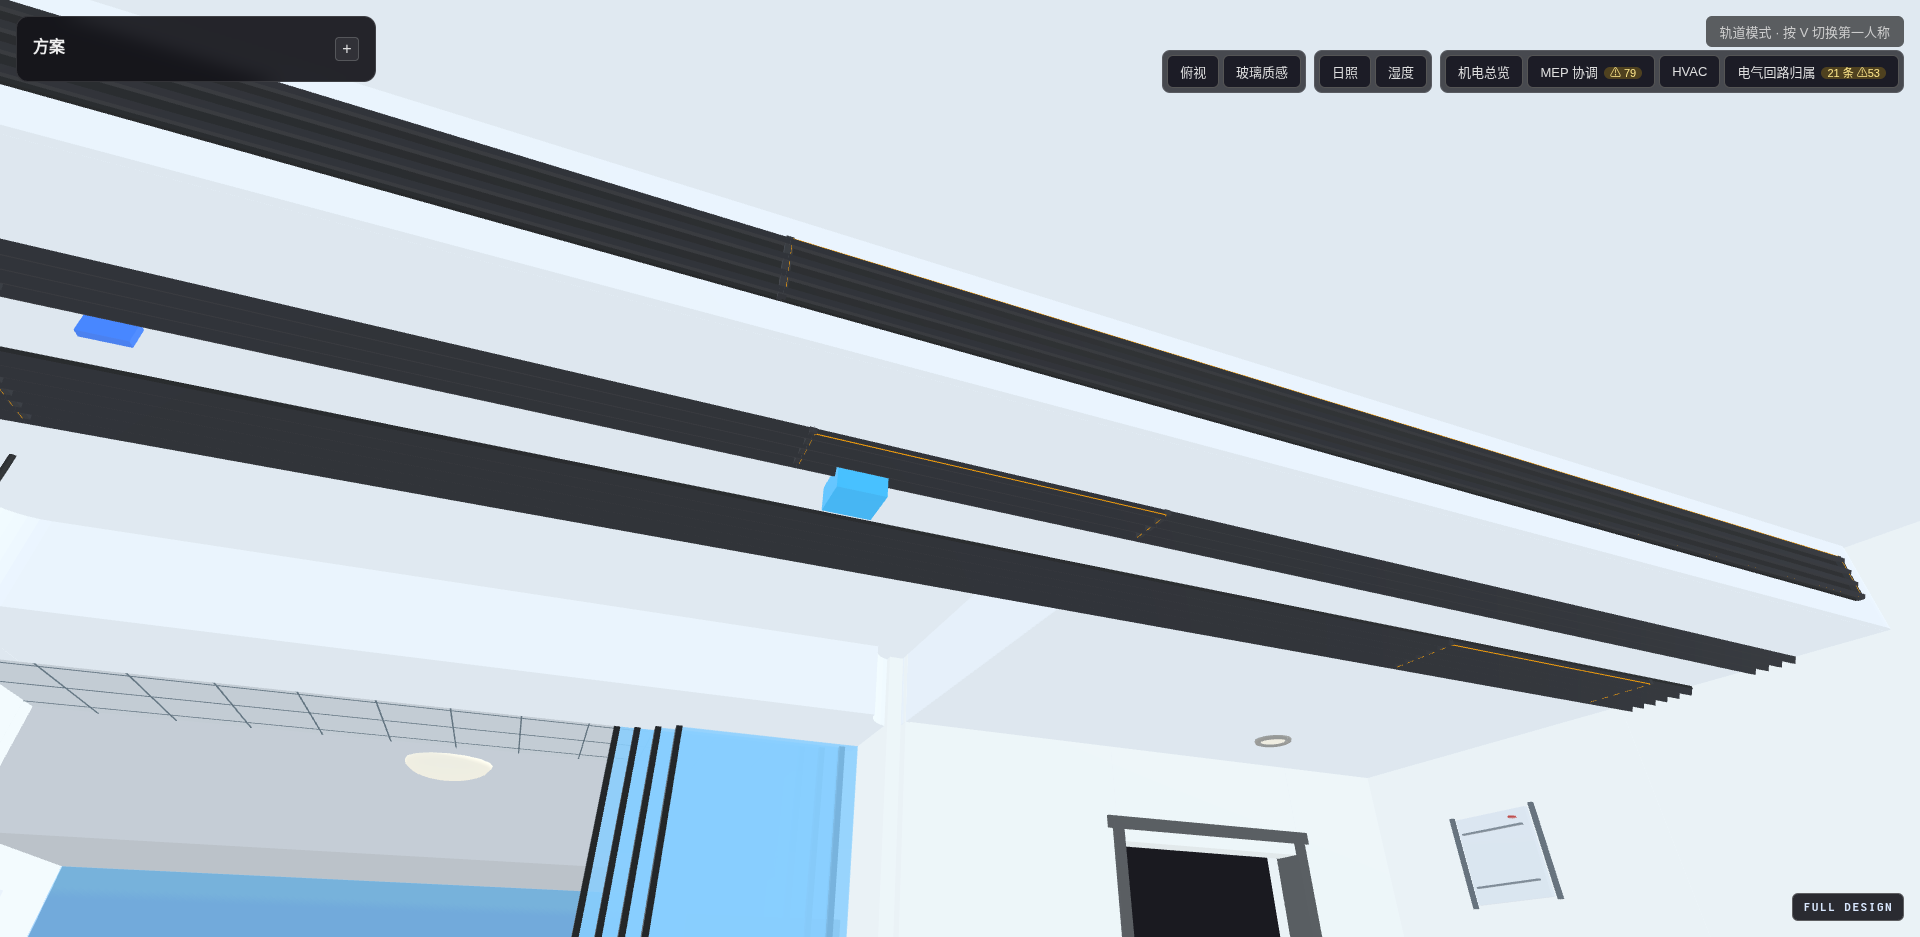
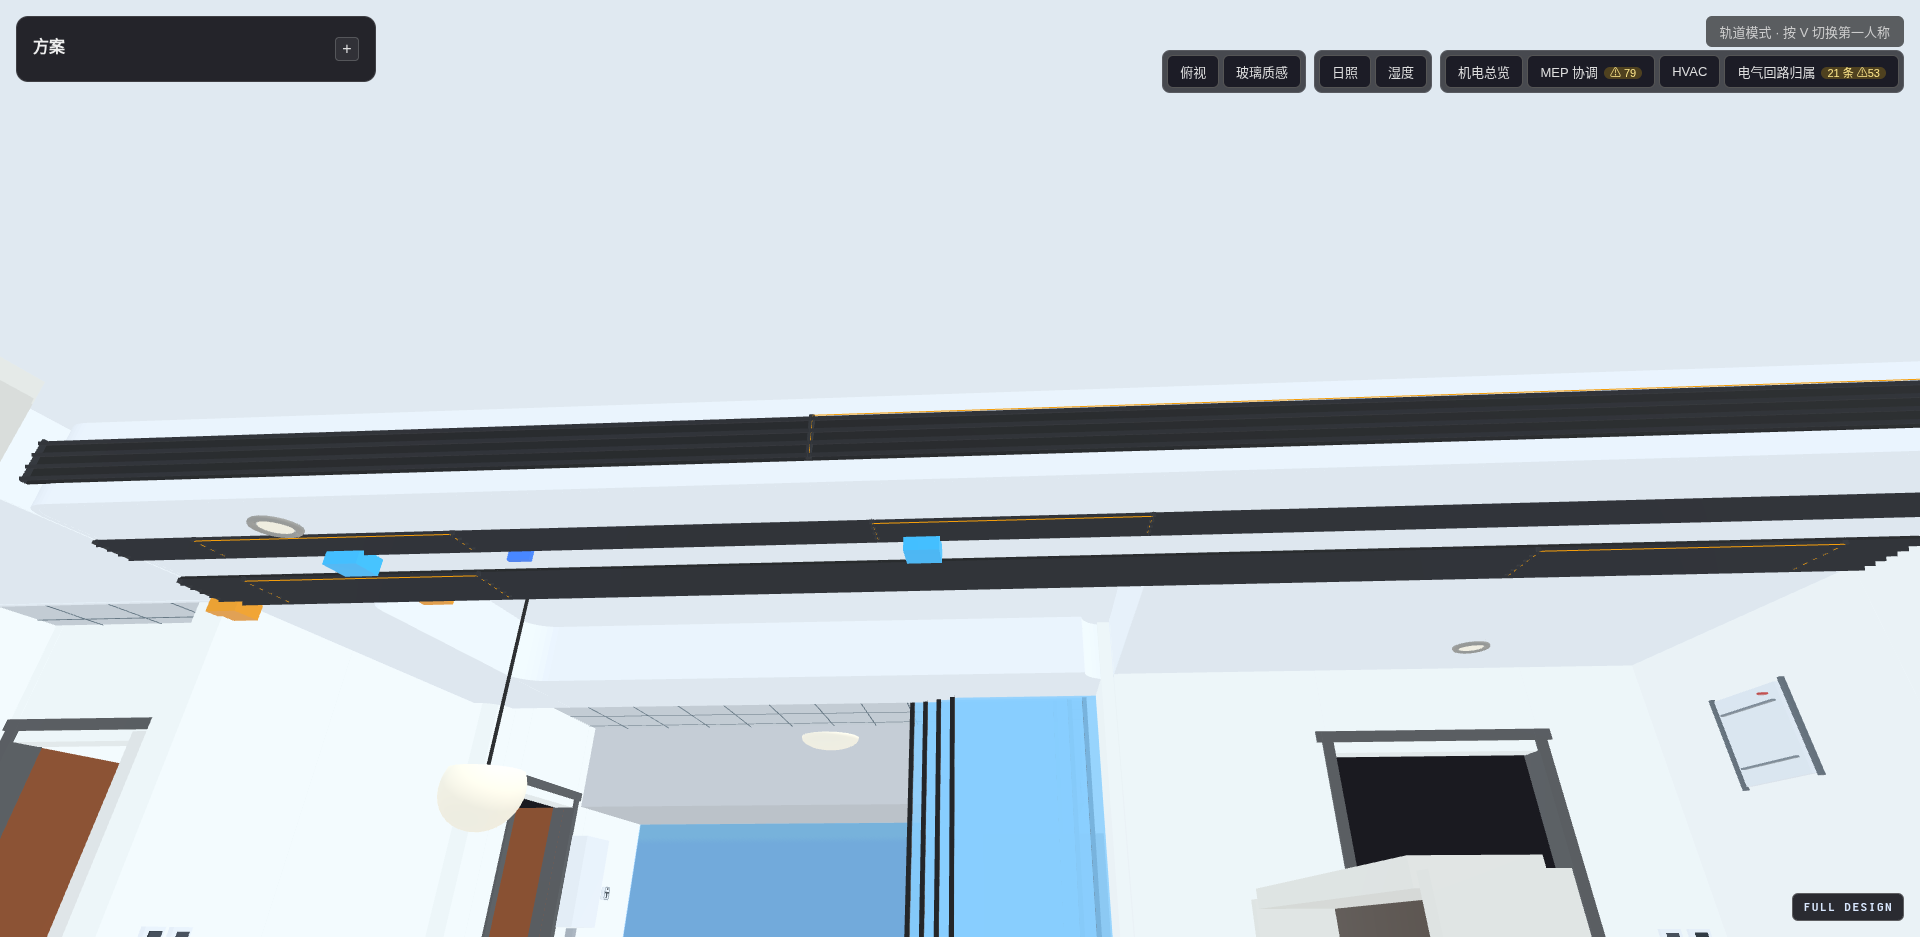
feat(hvac): DEC-2026-10-07-R03 客餐厅三层线收尾——仰视近景证据 + 常驻截图/运行时校验脚本
主体改动（config/hvac.yaml 三层线口径+8个LD-deco-*封闭装饰段、HvacTerminal的decorative/linear_slot/grille_height、HvacGeometryBuilder线性槽渲染、facts重生成、tests计数14→22、DEC条目与迭代五件套）此前已被并行会话的11ef1ff一并提交（该commit message为其ceiling主题、内容含本案全部改动，提交信息与实际内容不符，待业主裁定处理方式）。本提交补齐收尾文件：
- evidence/view4-band-closeup.png：设备带仰视近景（CDP截图，机位回读坐标见evidence-notes）
- evidence/evidence-notes.md：4视角机位/图纸说明/验收对照
- review-manifest.json：runtime_query改指常驻脚本
- scripts/render/capture/capture_hvac_ld_threeline_views.py：视角截图脚本常驻（CDP）
- scripts/render/diagrams/ld-threeline-runtime-check.ts：运行时尺寸/连续性校验脚本常驻

验证：verify:all Exit 0 / test:server 649 / test:app 482 / typecheck / GLB 22 terminal 唯一。

diff --git a/scripts/render/diagrams/ld-threeline-runtime-check.ts b/scripts/render/diagrams/ld-threeline-runtime-check.ts
@@ -1,0 +1,22 @@
+import { readFileSync } from 'node:fs';
+import * as THREE from 'three';
+import { buildHvacGeometry } from '../../../shared/render/HvacGeometryBuilder.js';
+import { buildHvacBuilderSources } from '../../../shared/render/HvacBuilder.js';
+
+const projection = JSON.parse(readFileSync('data/project-render-facts.json', 'utf8'));
+const root = new THREE.Group();
+const { index } = buildHvacGeometry(root, projection, buildHvacBuilderSources({ projection }));
+const rows: Record<string, unknown> = {};
+for (const [id, object] of index.terminals) {
+  if (!/ld-deco|supply_living|supply_dining|return_living|return_dining|living_bottom|dining_bottom/i.test(id)) continue;
+  object.updateMatrixWorld(true);
+  const box = new THREE.Box3().setFromObject(object);
+  const size = box.getSize(new THREE.Vector3());
+  rows[id] = {
+    position: object.position.toArray().map((v) => Number(v.toFixed(3))),
+    render_style: object.userData.render_style,
+    decorative: object.userData.decorative,
+    size: [size.x, size.y, size.z].map((v) => Number(v.toFixed(3))),
+  };
+}
+console.log(JSON.stringify({ hvacTerminals: index.terminals.size, livingDining: rows }));

diff --git a/scripts/render/capture/capture_hvac_ld_threeline_views.py b/scripts/render/capture/capture_hvac_ld_threeline_views.py
@@ -1,0 +1,121 @@
+#!/usr/bin/env python3
+"""DEC-2026-10-07-R03 客餐厅三层线视角证据截图（CDP）。
+前置：PATH=$PWD/node_modules/.bin bash scripts/dev.sh（源码 dev，server :4000 / vite :5175）+
+chromium --headless=new --remote-debugging-port=9222 --remote-allow-origins=* --enable-unsafe-swiftshader http://localhost:5175
+用法：.venv/bin/python scripts/render/capture/capture_hvac_ld_threeline_views.py
+说明：轨道模式默认极角钳位会把低机位相机推高，脚本在页面内放开 controls.maxPolarAngle 后按人视高度截图。
+"""
+import base64
+import json
+import sys
+import time
+from pathlib import Path
+
+import requests
+from websocket import create_connection
+
+CDP = 'http://localhost:9222/json'
+APP_URL = 'http://localhost:5175'
+OUT = Path(__file__).resolve().parents[2] / 'docs/design-iterations/hvac-dual-outlet-threeline-20261007/evidence'
+OUT.mkdir(parents=True, exist_ok=True)
+
+# name, camera pos, controls target, note
+VIEWS = [
+    ('view1-living-band-main', (9.9, 1.60, 7.70), (10.4, 2.42, 5.00), '客餐厅主效果图：客厅侧看向设备带（南→北）'),
+    ('view2-from-living-to-dining', (12.9, 1.58, 7.20), (7.8, 2.25, 3.40), '从客厅看餐厅（越过设备带北缘看餐区/餐桌）'),
+    ('view3-from-dining-to-living', (7.9, 1.52, 3.60), (12.9, 2.42, 5.60), '从餐厅看客厅（餐桌位看向客厅侧与设备带）'),
+    ('view4-band-closeup', (9.50, 1.42, 6.50), (10.2, 2.50, 4.90), '设备带近景（仰视：底面前侧下出风 + 后侧回风两条线）'),
+    ('view4b-band-underside', (10.30, 1.30, 7.55), (10.15, 2.56, 5.15), '设备带底面仰视候选（客厅侧低于边吊看向底面两层线）'),
+    ('view4c-band-underside-dining', (8.05, 1.30, 3.75), (9.00, 2.56, 4.55), '设备带底面仰视候选（餐厅侧低于边吊看向底面两层线）'),
+]
+
+
+def ws_url():
+    pages = requests.get(CDP, timeout=10).json()
+    for page in pages:
+        if page.get('type') == 'page' and APP_URL in page.get('url', ''):
+            return page['webSocketDebuggerUrl']
+    raise RuntimeError(f'no CDP page for {APP_URL}; pages={[p.get("url") for p in pages]}')
+
+
+class Cdp:
+    def __init__(self, ws_url):
+        self.ws = create_connection(ws_url, timeout=60)
+        self.next_id = 1
+
+    def send(self, method, params=None):
+        rid = self.next_id
+        self.next_id += 1
+        self.ws.send(json.dumps({'id': rid, 'method': method, 'params': params or {}}))
+        while True:
+            msg = json.loads(self.ws.recv())
+            if msg.get('id') == rid:
+                if 'error' in msg:
+                    raise RuntimeError(f'{method}: {msg["error"]}')
+                return msg['result']
+
+    def evaluate(self, expression, await_promise=False, timeout=60):
+        result = self.send('Runtime.evaluate', {'expression': expression, 'returnByValue': True, 'awaitPromise': await_promise})
+        value = result.get('result', {})
+        if value.get('exceptionDetails'):
+            raise RuntimeError(f'evaluate failed: {value["exceptionDetails"]}')
+        return value.get('value')
+
+    def close(self):
+        self.ws.close()
+
+
+def wait_ready(cdp, timeout=120):
+    deadline = time.monotonic() + timeout
+    while time.monotonic() < deadline:
+        try:
+            ready = cdp.evaluate('window.__APP__ && window.__APP__.isReady && window.__APP__.isReady()')
+            if ready:
+                return True
+        except Exception:
+            pass
+        time.sleep(1)
+    raise TimeoutError('app not ready')
+
+
+def prepare_mode(cdp):
+    # setMode 会触发相机动画归位，必须先切模式并等动画结束再设置相机
+    # 放开轨道相机的极角限制，否则仰视（相机低于设备带）会被 controls 钳位推回高处
+    cdp.evaluate('(() => { const hs = window.__APP__.houseScene; hs.setMode("orbit"); hs.setCeilingVisible(true); hs.controls.maxPolarAngle = Math.PI * 0.99; hs.controls.minPolarAngle = 0.02; hs.requestRender(); return 1; })()')
+    time.sleep(1.8)
+
+
+def set_camera(cdp, pos, target):
+    js = (
+        '(() => {'
+        '  const hs = window.__APP__.houseScene;'
+        '  hs.camera.position.set(%f, %f, %f);'
+        '  hs.controls.target.set(%f, %f, %f);'
+        '  hs.controls.update();'
+        '  hs.requestRender();'
+        '  return JSON.stringify(hs.getCameraState());'
+        '})()' % (*pos, *target)
+    )
+    return cdp.evaluate(js)
+
+
+def main():
+    cdp = Cdp(ws_url())
+    try:
+        cdp.send('Page.enable')
+        wait_ready(cdp)
+        for name, pos, target, note in VIEWS:
+            prepare_mode(cdp)
+            state = set_camera(cdp, pos, target)
+            time.sleep(1.2)
+            shot = cdp.send('Page.captureScreenshot', {'format': 'png', 'captureBeyondViewport': False})
+            path = OUT / f'{name}.png'
+            path.write_bytes(base64.b64decode(shot['data']))
+            print(f'saved {path}  ({note})')
+            print(f'  camera={state}')
+    finally:
+        cdp.close()
+
+
+if __name__ == '__main__':
+    main()

diff --git a/docs/design-iterations/hvac-dual-outlet-threeline-20261007/evidence/evidence-notes.md b/docs/design-iterations/hvac-dual-outlet-threeline-20261007/evidence/evidence-notes.md
@@ -1,0 +1,33 @@
+# Evidence Notes — 客餐厅三层线风口（DEC-2026-10-07-R03）
+
+- 渲染链：源码 dev（`PATH=$PWD/node_modules/.bin bash scripts/dev.sh`：server :4000 + vite :5175）+ headless Chromium 152（CDP :9222，`--remote-allow-origins=* --enable-unsafe-swiftshader`）。
+- 截图脚本：`scripts/render/capture/capture_hvac_ld_threeline_views.py`（CDP `Runtime.evaluate` 设相机 + `Page.captureScreenshot`）。轨道模式默认极角钳位会把低机位相机推高，脚本在页面内放开 `controls.maxPolarAngle≈π` 后按人视高度（1.30–1.60m）截图；相机状态由 `getCameraState()` 回读记录。
+- 说明：业主此前的 electrical.yaml 红色横幅来自旧 `app/dist` 构建；本次全部用源码 dev 渲染，未出现该横幅。
+
+## 视角清单与机位（回读值）
+
+| 文件 | 视角 | 相机 position | controls target |
+|---|---|---|---|
+| view1-living-band-main.png | 客餐厅主效果图（客厅侧看向设备带，南→北） | (9.90, 1.60, 7.70) | (10.40, 2.42, 5.00) |
+| view2-from-living-to-dining.png | 从客厅看餐厅（越过设备带北缘看餐区/餐桌） | (12.90, 1.58, 7.20) | (7.80, 2.25, 3.40) |
+| view3-from-dining-to-living.png | 从餐厅看客厅（餐桌位看向客厅侧与设备带） | (7.90, 1.52, 3.60) | (12.90, 2.42, 5.60) |
+| view4-band-closeup.png | 设备带近景·仰视（底面前侧下出风 + 后侧回风两条线） | (10.30, 1.30, 7.55) | (10.15, 2.56, 5.15) |
+
+## 图纸
+
+- d1-plan-correspondence.png：脚本 `scripts/render/diagrams/draw-hvac-ld-threeline.py`（读 config/hvac.yaml + ceiling.yaml，.venv 需 matplotlib）生成——设备带三层线平面：功能段实心（各自归属一台机器）、装饰段斜纹封闭标注、机器机身占位（外廓待厂家图）、机器↔风口对应虚线。
+- d2-ceiling-section.png：同脚本生成——剖面 A-A（x=10.30 穿 71T2：功能上出风 + 功能下出风 + 封闭装饰回风段）与剖面 B-B（x=7.90 穿 42T2：功能上出风 + 功能下出风 + 功能回风/检修），含 2.80 原顶、参考梁底 2.73、边吊 0.30/净高 2.50、设备带进深 0.90 标注。
+
+## 运行时校验（scripts/render/diagrams/draw-hvac-ld-threeline.py（同源数据；运行时尺寸校验：npx tsx scripts/render/diagrams/ld-threeline-runtime-check.ts），buildHvacGeometry over data/project-render-facts.json）
+
+- 可渲染 terminal 共 22；客餐厅 14 个对象全部 `render_style=linear_slot`，8 个 `LD-deco-*` 全部 `decorative=true`。
+- 连续性：下出风行 z=4.85 与回风行 z=4.45 均为「功能段 + 封闭装饰段」拼满 x[7.20,13.40] 无缺口；南立面装饰 [7.20,9.70]+功能 [9.70,13.20]，北立面功能 [7.70,9.70]+装饰 [9.70,13.40]（两端正交交接不贴百叶）。
+- 尺寸：功能段框宽=length+0.016（端帽），送风排高 0.15 / 回风排高 0.25（grille_height 生效）。
+
+## 验收对照
+
+1. 完整设备带：view1/view4 中侧面为一条连续百叶线，底面为两条连续线（无孤立矩形成品框）。
+2. 送回风独立：d1/d2 中 71T2↔supply_living/supply_living_bottom/return_living，42T2↔supply_dining/supply_dining_bottom/return_dining，装饰段标注封闭无风道。
+3. 三层平行对齐同语言：z=5.20/4.85/4.45 三层、同 matte_black linear_slot。
+4. 吊顶总体结构未变：几何/标高/梁体/机位未动（verify:all Exit 0）。
+5. 可交施工深化：d2 剖面节点含标高/进深/段域坐标，段长与合同名义尺寸差异登记 site_pending（q1）。
